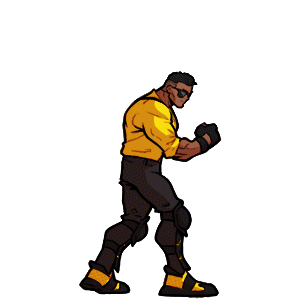
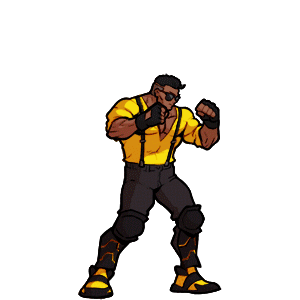
Add files via upload

Changed region(s): [[0.24, 0.24, 0.75, 1.0]]

diff --git a/players/perso4/perso4.py b/players/perso4/perso4.py
@@ -7,9 +7,9 @@ class Player(defaultPlayer.Player):
 
 	def __init__(self):
 		defaultPlayer.Player.__init__(self)
-		self.leftMotion = motion.Motion("./players/perso4/avancer", self, speed = 0.1, invert = True)
-		self.rightMotion = motion.Motion("./players/perso4/avancer", self, speed = 0.1)
-		self.upMotion = motion.Motion("./players/perso4/sauter", self, speed = 0.4)
+		self.leftMotion = motion.Motion("./players/perso4/avancer", self, speed = 0.2, invert = True)
+		self.rightMotion = motion.Motion("./players/perso4/avancer", self, speed = 0.2)
+		self.upMotion = motion.Motion("./players/perso4/sauter", self, speed = 0.2)
 		self.downMotion = motion.Motion("./players/perso4/down", self, yi=5)
-		self.SAMotion = motion.Motion("./players/perso4/pied", self, speed = 0.2)
+		self.SAMotion = motion.Motion("./players/perso4/spe_main", self, speed = 0.2)
 		self.downMotion.setRollEnabled(False)
